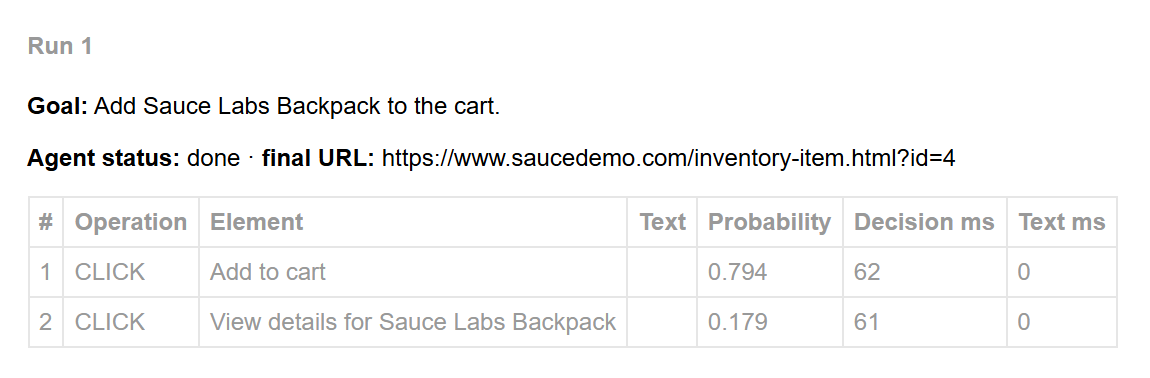
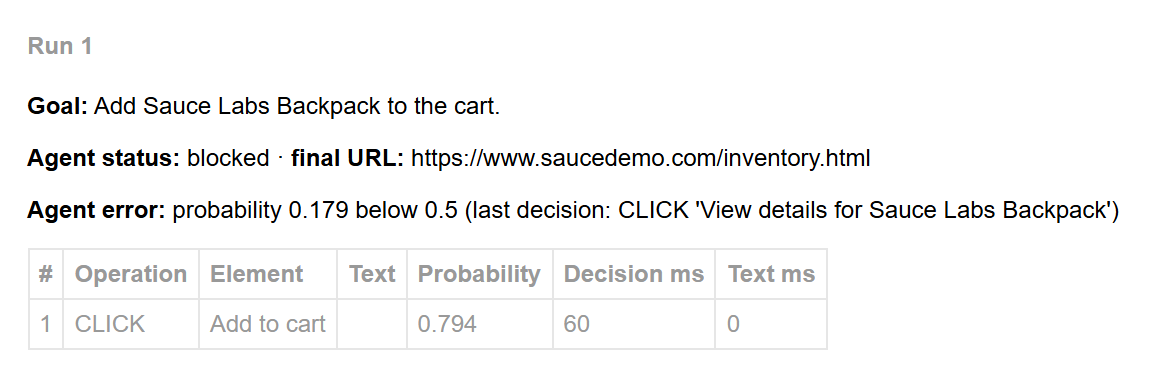
add confidence threshold: the agent stops before a step below 0.5

diff --git a/framework/runner.py b/framework/runner.py
@@ -6,9 +6,13 @@ from dataclasses import asdict, dataclass
 from pathlib import Path
 
 from jev_ultrafast import Agent
+from jev_ultrafast.browser import StalePage
 
 SECRET_FIELD = re.compile("password", re.IGNORECASE)
 INTERACTIVE = {"click", "fill", "select"}
+# The agent stops instead of acting on a less likely choice. On saucedemo every intended step scores 0.74 or higher;
+# the one unintended click ("View details" after "Add to cart") scores 0.18.
+MIN_PROBABILITY = 0.5
 
 
 @dataclass
@@ -65,9 +69,12 @@ def _drive(agent, goal, max_actions):
     _wait_for_controls(agent)
     status, error = "error", None
     try:
-        for state in agent.run():
-            if len(state["history"]) >= max_actions and state["status"] not in {"done", "blocked"}:
+        while agent.state["status"] not in {"done", "blocked"}:
+            if len(agent.state["history"]) >= max_actions:
                 status = "budget"
+                break
+            if stop := _tick(agent):
+                status, error = "blocked", stop
                 break
         else:
             status = agent.state["status"]
@@ -83,6 +90,30 @@ def _drive(agent, goal, max_actions):
         final_url=state["page"]["url"],
         error=error,
     )
+
+
+def _tick(agent):
+    """Agent.command("tick") with a confidence check between the decision and the action.
+
+    Returns why the run stops when the chosen action is below MIN_PROBABILITY (it is not executed), else None.
+    DONE and BLOCKED are not checked: they end the run, and the test's assertion is the verdict.
+    The StalePage recovery mirrors tick in jev_ultrafast/agent.py.
+    """
+    state = agent.state
+    try:
+        agent.command("predict")
+        decision = state["decision"]
+        probability = decision["probabilities"][decision["choice"]]
+        if decision["choice"] not in {"DONE", "BLOCKED"} and probability < MIN_PROBABILITY:
+            state["elapsed_ms"] = round((time.perf_counter() - state["started_at"]) * 1000)
+            return f"probability {probability:.3f} below {MIN_PROBABILITY}{_last_decision(state)}"
+        agent.command("act", {"fingerprint": state["page"]["fingerprint"]})
+    except StalePage:
+        state["decision"] = None
+        state["status"] = "ready"
+        state["page"] = agent.browser.observe(screenshot=agent.screenshots)
+        state["elapsed_ms"] = round((time.perf_counter() - state["started_at"]) * 1000)
+    return None
 
 
 def _wait_for_controls(agent, timeout=5):

diff --git a/tests/test_saucedemo.py b/tests/test_saucedemo.py
@@ -26,6 +26,17 @@ def test_add_backpack_to_cart(jev, logged_in):
     assert page.evaluate("localStorage.getItem('cart-contents')") == "[4]"  # 4 is the Backpack's item id
 
 
+def test_low_confidence_step_is_not_executed(jev, logged_in):
+    # After "Add to cart" the model's next choice is "View details" at ~0.18, below MIN_PROBABILITY.
+    # Here the agent's own stop is what is checked, so its status is part of the verdict.
+    result, page = jev.start("/inventory.html", "Add Sauce Labs Backpack to the cart.", max_actions=4)
+
+    assert result.status == "blocked", result.outcome
+    assert result.error.startswith("probability "), result.outcome
+    assert page.evaluate("location.pathname") == "/inventory.html"  # "View details" was not clicked
+    assert page.evaluate("localStorage.getItem('cart-contents')") == "[4]"
+
+
 def test_full_checkout(jev):
     result, page = jev.start("/", LOGIN, max_actions=6)
     assert page.evaluate("location.pathname") == "/inventory.html", result.outcome

diff --git a/README.md b/README.md
@@ -54,11 +54,12 @@ What makes it promising:
 - **Choosing instead of generating.** The model cannot invent a selector or click a non-existent button:
   every action is an element from the page snapshot, re-validated right before execution.
 - **Speed and cost.** Tens of milliseconds per decision on a local GPU, no per-token billing.
-- **Measurable confidence.** Every decision carries a probability, so a threshold can be applied and doubtful steps
-  show up in the report.
+- **Measurable confidence.** Every decision carries a probability: the agent stops before a doubtful step instead of
+  taking it, and every probability is in the report.
 
 The downsides, honestly: goals have to be phrased for the model, long scenarios have to be split into steps,
-and without a confidence threshold the agent sometimes takes extra actions. For CI regression suites the classic
+and on ambiguous pages the model sometimes wants an extra action: the confidence threshold stops it, it does not
+make the model smarter. For CI regression suites the classic
 frameworks are still more reliable. This project is a working template and a test bed for the approach, not a replacement.
 
 ## Architecture
@@ -181,6 +182,8 @@ Rules for phrasing goals (found experimentally):
 - submit a form as a separate goal after typing (`then("Click Continue.")`);
 - set `max_actions` slightly above the minimum needed: extra steps show up in the report, and a loop stops
   with status `budget`;
+- a step below `MIN_PROBABILITY` (0.5, `framework/runner.py`) is not executed: the run stops with status `blocked`
+  and the reason in `result.error`;
 - the agent's status (`done`) is not a verdict. Check the result on the page or in `localStorage`;
 - prepare preconditions that the test does not verify without the agent (e.g. the `logged_in` fixture sets a cookie).
 
@@ -191,8 +194,9 @@ number of actions, agent time and average decision latency. Each test card shows
 the goal, a step table (operation, element, typed text, probability, decision and text ms) and the final screenshot.
 Passwords are masked. With `--record-steps`, failed tests also get a frame after every action.
 Raw data for every run is in `reports/artifacts/<test>/run-N/run.json`.
+A step stopped by the confidence threshold is shown as the agent error, with its probability.
 
-![HTML report, test_add_backpack_to_cart: the step table with the extra "View details" click at probability 0.179](docs/media/report.png)
+![HTML report, test_low_confidence_step_is_not_executed: "Add to cart" is executed, the next choice "View details" at probability 0.179 is stopped by the threshold](docs/media/report.png)
 
 <details>
 <summary>Full card of <code>test_full_checkout</code>: six goals in one tab</summary>
@@ -217,7 +221,8 @@ In the Linux container torch runs some operations as Triton kernels, which makes
   Chrome paths, the CUDA-only torch index and the GPU reservation in `compose.yaml` are Windows/NVIDIA-specific.
 - No CI: the live tests need an NVIDIA GPU, which standard GitHub-hosted runners do not have
   (GPU runners require a paid Team/Enterprise plan). The suite runs locally or in local Docker.
-- The model acts without a confidence threshold. Flakiness on ambiguous pages is caught only by the test assertions.
+- The confidence threshold (0.5) is tuned on saucedemo, where every intended step scores 0.74 or higher;
+  another site may need a different value.
 - jev-ultrafast is an MVP: shadow DOM, iframes, file uploads and pop-up windows are not supported.
 - Goals are written for the model, not for a human. That is the price of a 322M model deciding in tens of milliseconds.
 
